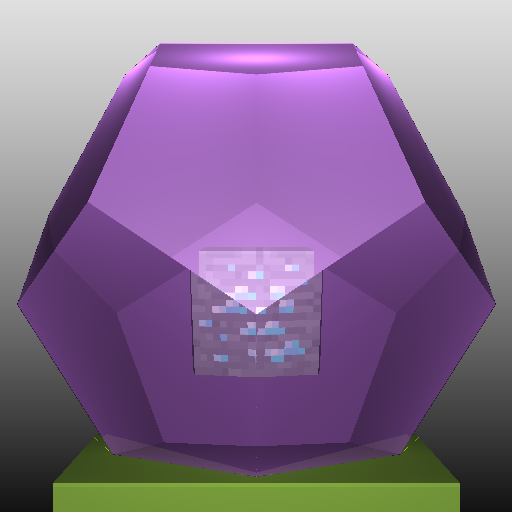
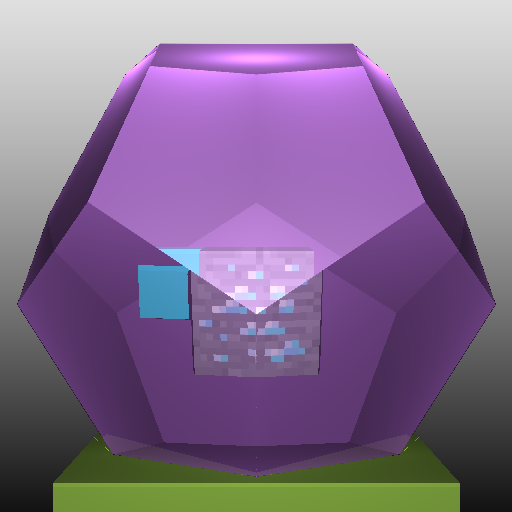
Remade constructors to make normals right, but it still strange. And, in fact, nothing changes...

Changed region(s): [[0.25, 0.4688, 0.4062, 0.625]]

diff --git a/Source/main.cpp b/Source/main.cpp
@@ -13,11 +13,11 @@
 
 float SIZE = 1;
 
-Vec refract_vec(Vec, Vec, float);
+Vec refract_vec(Vec, Vec, float, float i_r = 1);
 Vec reflect_vec(Vec, Vec);
 
 Collision
-trace_ray(std::vector<Object *> *scene, std::vector<Light> *lights, Ray ray, int deep) {
+trace_ray(std::vector<Object *> *scene, std::vector<Light> *lights, Ray ray, int deep, int reality) {
     Collision hit, tmp;
     if (deep <= 0) {
         return hit;
@@ -28,7 +28,9 @@ trace_ray(std::vector<Object *> *scene, std::vector<Light> *lights, Ray ray, int
     for (size_t i = 0; i < len; i++) {
         tmp = (*scene)[i]->intersect(ray);
         if (tmp.hit && (!hit.hit || hit.dist - tmp.dist > EPS)) {
-            hit = tmp;
+            if ((reality == -1) || (tmp.real == reality)) {
+                hit = tmp;
+            }
         }
     }
     if (hit.hit) {
@@ -44,13 +46,16 @@ trace_ray(std::vector<Object *> *scene, std::vector<Light> *lights, Ray ray, int
             float way_coef = 0;
             bool result = true;
             float in_a = 1;
+            std::vector<size_t> in_objects = std::vector<size_t>();
             while (true) {
                 Collision intersected, tmp;
+                size_t object = -1;
                 for (size_t j = 0; j < len; j++) {
                     tmp = (*scene)[j]->intersect(to_light);
                     if (tmp.hit && tmp.real == hit.real) {
                         if (!intersected.hit || (intersected.dist - tmp.dist > EPS)) {
                             intersected = tmp;
+                            object = j;
                         }
                     } else {
                     }
@@ -62,10 +67,16 @@ trace_ray(std::vector<Object *> *scene, std::vector<Light> *lights, Ray ray, int
                     if (intersected.color.a < 1) {
                         way_coef += in_a * intersected.dist;
                         to_light.pos = to_light.pos + (to_light.dir * intersected.dist);
-                        // here all is bad, because i dont know, inside or outside of object we went
-                        if (in_a < 1) {
-                            in_a = 1; // kostyl`
+                        
+                        if (in_objects.size() > 0 && in_objects[in_objects.size() - 1] == object) { // out
+                            in_objects.pop_back();
+                            if (in_objects.empty()) {
+                                in_a = 1;
+                            } else {
+                                in_a = (*scene)[in_objects.back()]->color.a;
+                            }
                         } else {
+                            in_objects.push_back(object);
                             in_a = intersected.color.a;
                         }
                     } else {
@@ -83,17 +94,16 @@ trace_ray(std::vector<Object *> *scene, std::vector<Light> *lights, Ray ray, int
         hit.color = hit.color * add;
         if (hit.color.a < 1) { // through object
             Ray through_ray(ray.pos + (ray.dir * (hit.dist + 1)), refract_vec(ray.dir, hit.normal, hit.refraction));
-            Collision through = trace_ray(scene, lights, through_ray, deep - 1);
+            Collision through = trace_ray(scene, lights, through_ray, deep - 1, reality);
             hit.color = (hit.color * hit.color.a) + (through.color * (1 - hit.color.a));
         }
         if (hit.reflection > 0) { // other ray
             Ray reflected_ray(first_intersect, reflect_vec(ray.dir, hit.normal));
-            Collision reflected = trace_ray(scene, lights, reflected_ray, deep - 1);
+            Collision reflected = trace_ray(scene, lights, reflected_ray, deep - 1, hit.real);
             if (reflected.hit) {
                 hit.color = (hit.color * (1 - hit.reflection)) + (reflected.color * hit.reflection);
             } else { // may be there is a light somewhere nearby?
                 float light_add = 0;
-                
                 for (size_t i = 0; i < lights_len; i++) {
                     Vec light_dir = (*lights)[i].pos - reflected_ray.pos;
                     float light_cos = abs(dot(light_dir.normalize(), reflected_ray.dir.normalize()));
@@ -112,9 +122,9 @@ trace_ray(std::vector<Object *> *scene, std::vector<Light> *lights, Ray ray, int
 }
 
 Vec
-refract_vec(Vec v, Vec normal, float refract) {
+refract_vec(Vec v, Vec normal, float refract, float init_refract) {
     float alpha = acos(dot(v.normalize(), normal.normalize() * (-1)));
-    float beta = asin(sin(alpha) / refract);
+    float beta = asin(sin(alpha) * init_refract / refract);
     Vec axis = cross(v, normal);
     return rotateAroundAxis(v, axis, beta - alpha);
 }
@@ -124,7 +134,8 @@ reflect_vec(Vec v, Vec normal) {
    // return v * dot(v, normal) * 2 - v;
    v = v.normalize();
    normal = normal.normalize();
-   return normal * (abs(dot(v, normal)) * 2) - v;
+//   if (dot(v, normal) < 0) normal = normal * (-1);
+   return  normal * (abs(dot(v, normal)) * 2) - v;
 }
 
 void 
@@ -171,6 +182,12 @@ render(int size) {
     cube->w = w;
     cube->h = h;
     scene.push_back(cube);
+
+    shift.x -= side / 2;
+    side /= 2;
+    base = Rectangle(Vec(0, 0, 0) + shift, Vec(0, side, 0) + shift, Vec(side, side, 0) + shift, Vec(side, 0, 0) + shift);
+    Cube *other_cube = new Cube(base, Color(0, 1, 1, 1), 1, 0, 0, false);
+    scene.push_back(other_cube);
     scene.push_back(&d);
     // podstavka
 
@@ -201,7 +218,7 @@ render(int size) {
         for (int y = 0; y < size; y++) {
             Vec dir = (Vec(x, y, 0) - me).normalize();
             Ray ray = Ray(me, dir);
-            Collision hit = trace_ray(&scene, &lights, ray, 2);
+            Collision hit = trace_ray(&scene, &lights, ray, 2, -1);
             
             if (hit.hit) {
                 buffer[x + y * size] = hit.color;

diff --git a/Lib/geom.h b/Lib/geom.h
@@ -51,7 +51,8 @@ Vec rotateAroundAxis(Vec, Vec, float);
 struct Ray {
     Vec pos;
     Vec dir;
-    Ray(Vec _pos, Vec _dir) : pos(_pos), dir(_dir) {}
+    float init_refraction;
+    Ray(Vec _pos, Vec _dir, float ref = 1) : pos(_pos), dir(_dir), init_refraction(ref) {}
 };
 
 struct Collision {
@@ -134,26 +135,26 @@ struct Cube : public Object {
 
         rectangles_number = 6;
         rectangles = new Rectangle[rectangles_number];
-        rectangles[0] = base;
+        rectangles[0] = Rectangle(base.triangles[1].c, base.triangles[0].c, base.triangles[0].b, base.triangles[0].a);
         
         Vec e1 = base.triangles[0].b - base.triangles[0].a;
         Vec e2 = base.triangles[0].c - base.triangles[0].b;
         float side = e1.len();
         Vec shift = cross(e1, e2).normalize() * side;
-        rectangles[1] = rectangles[0] + shift;
+        rectangles[1] = base + shift;
     
-        Vec a(rectangles[0].triangles[0].a);
+        Vec a(base.triangles[0].a);
         Vec b = a + shift;
         Vec c = b + e1;
         Vec d = a + e1;
         
-        rectangles[2] = Rectangle(a, b, c, d);
-        rectangles[3] = rectangles[2] + e2;
+        rectangles[2] = Rectangle(d, c, b, a);
+        rectangles[3] = Rectangle(a, b, c, d) + e2;
         
         c = b + e2;
         d = a + e2;
         rectangles[4] = Rectangle(a, b, c, d);
-        rectangles[5] = rectangles[4] + e1;
+        rectangles[5] = Rectangle(d, c, b, a) + e1;
         color = col;
     }
 
@@ -178,8 +179,8 @@ struct Cube : public Object {
             Vec y_vec = rectangles[rect_n].triangles[0].b - rectangles[rect_n].triangles[0].a;
             Vec x_vec = rectangles[rect_n].triangles[0].c - rectangles[rect_n].triangles[0].b;
             Vec intersect = (ray.pos + (ray.dir * res.dist)) - rectangles[rect_n].triangles[0].a;
-            int y = intersect.y / (y_vec.len() / h);
-            int x = intersect.x / (x_vec.len() / w);
+            int y = abs(intersect.y / (y_vec.len() / h));
+            int x = abs(intersect.x / (x_vec.len() / w));
             float red = texture[(x + y * w) * 3];
             float green = texture[(x + y * w) * 3 + 1];
             float blue = texture[(x + y * w) * 3 + 2];
